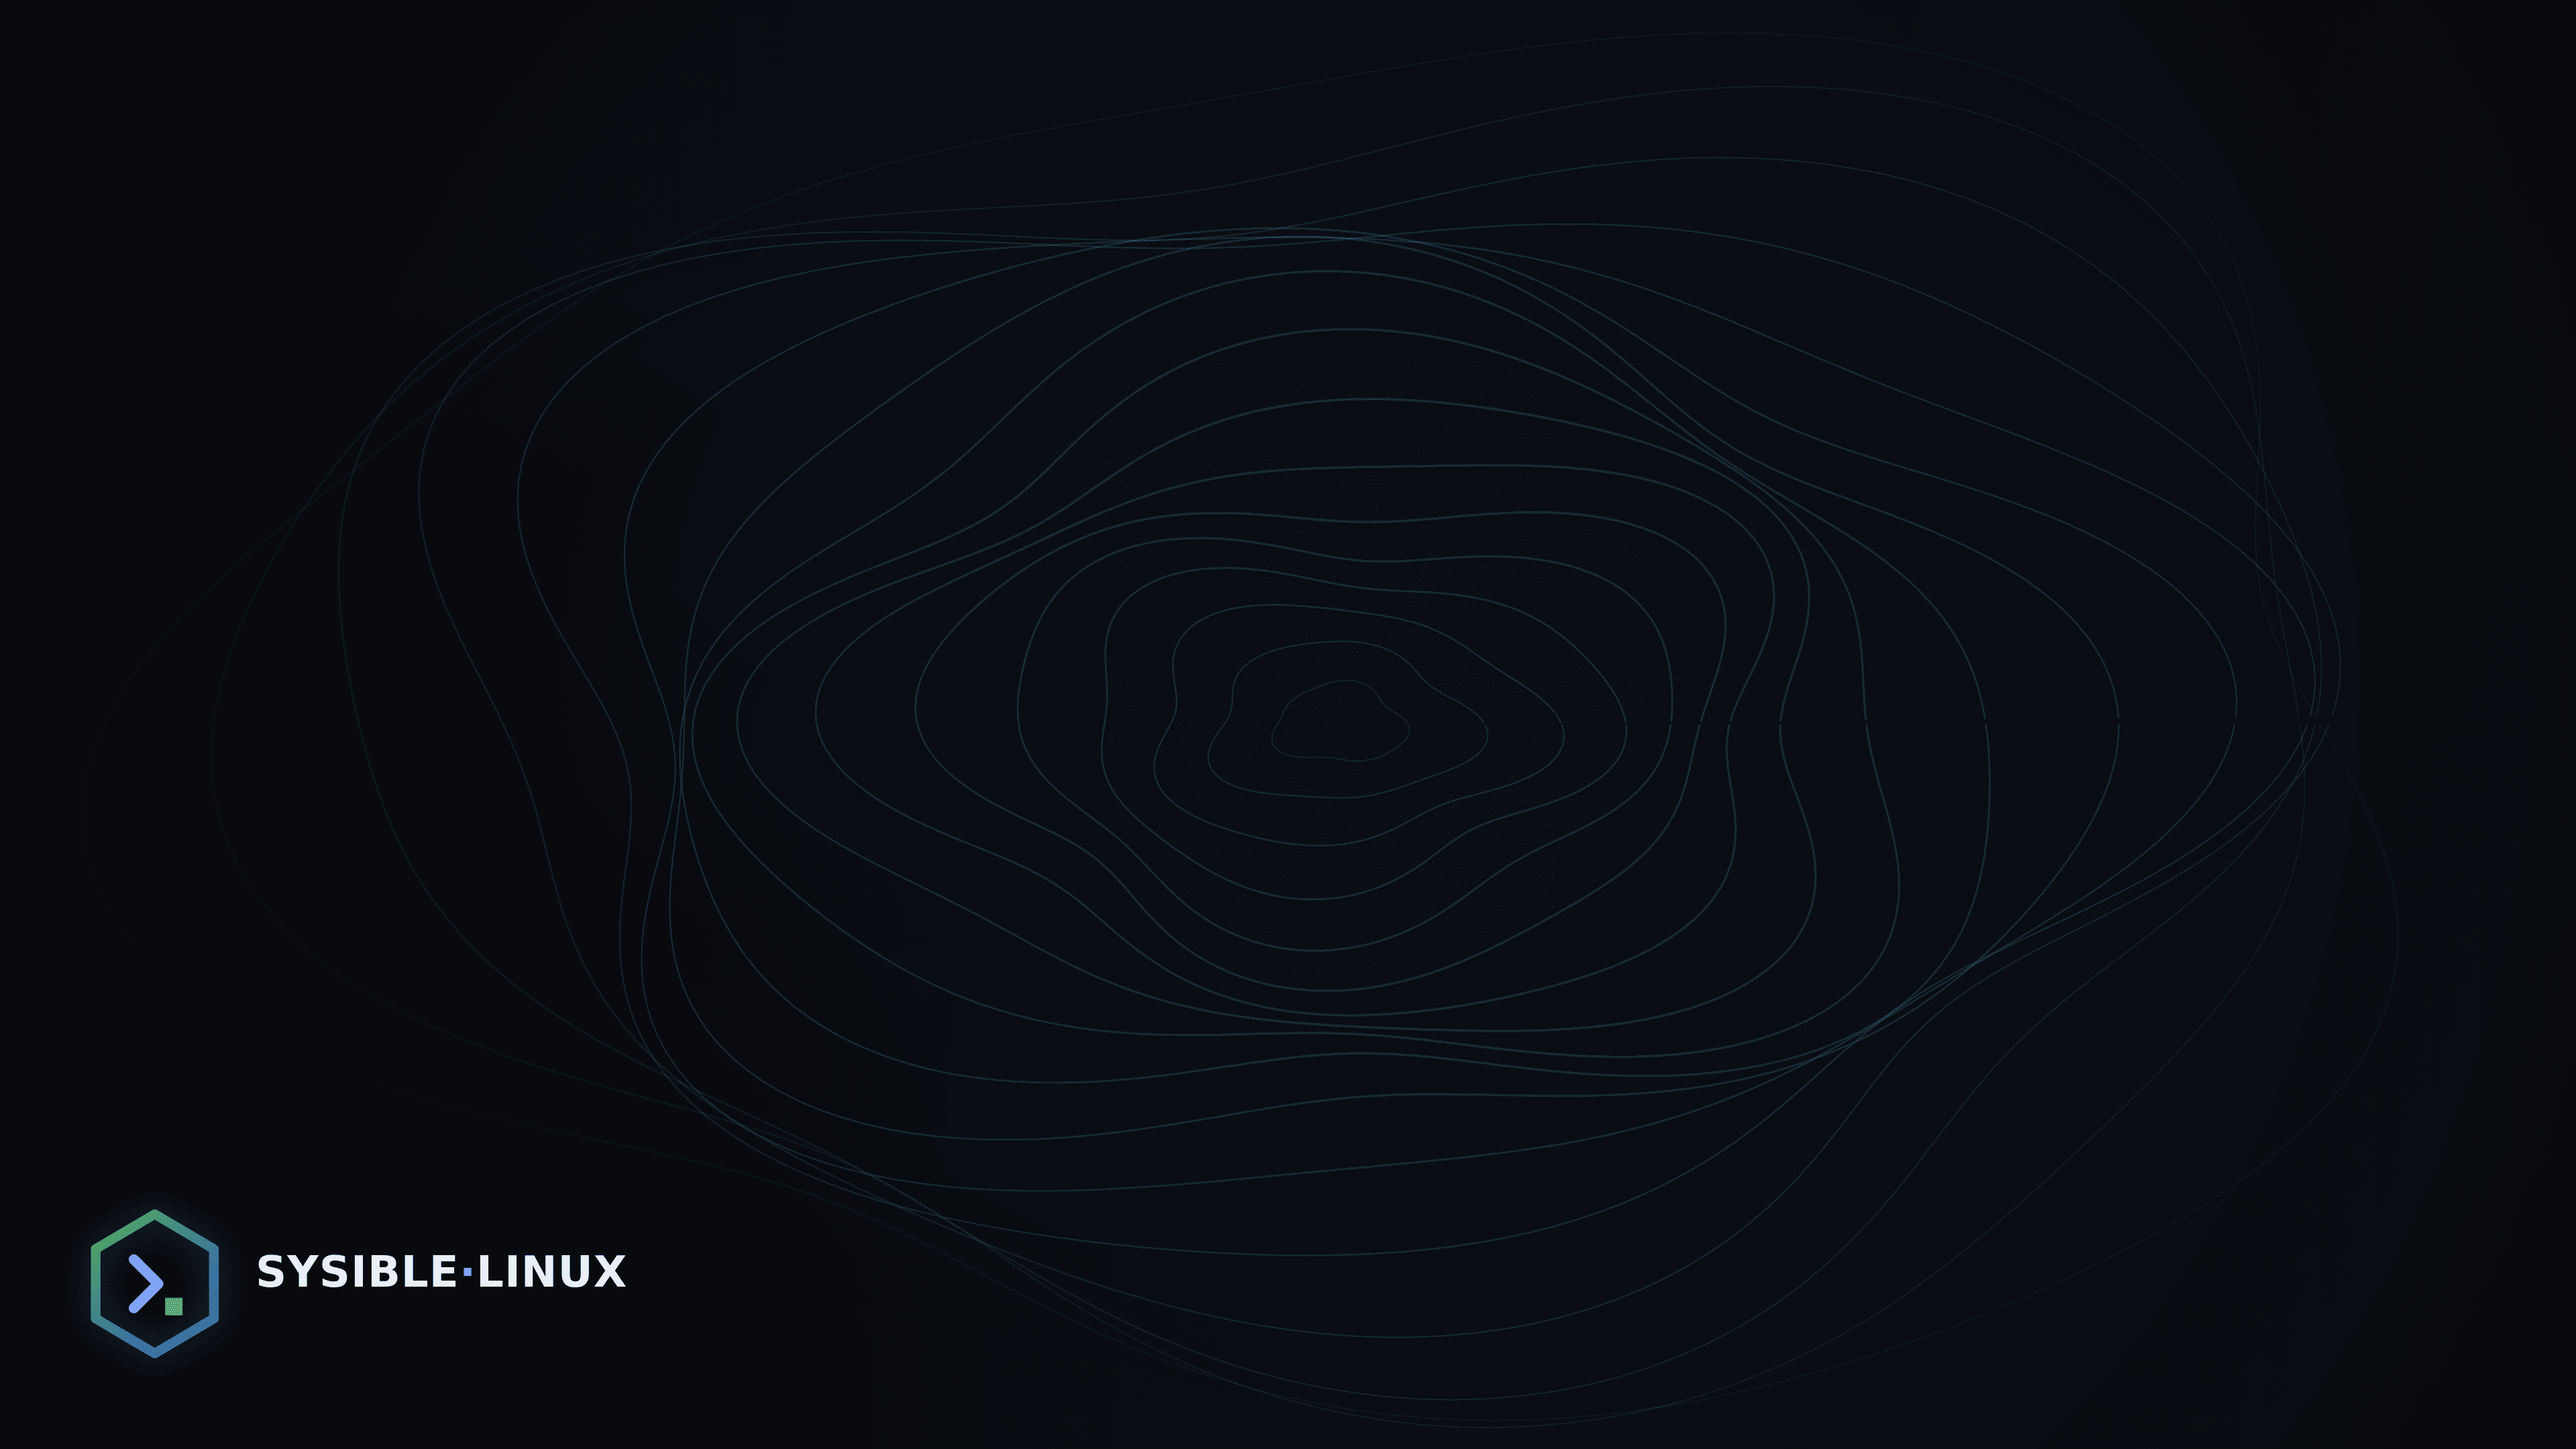
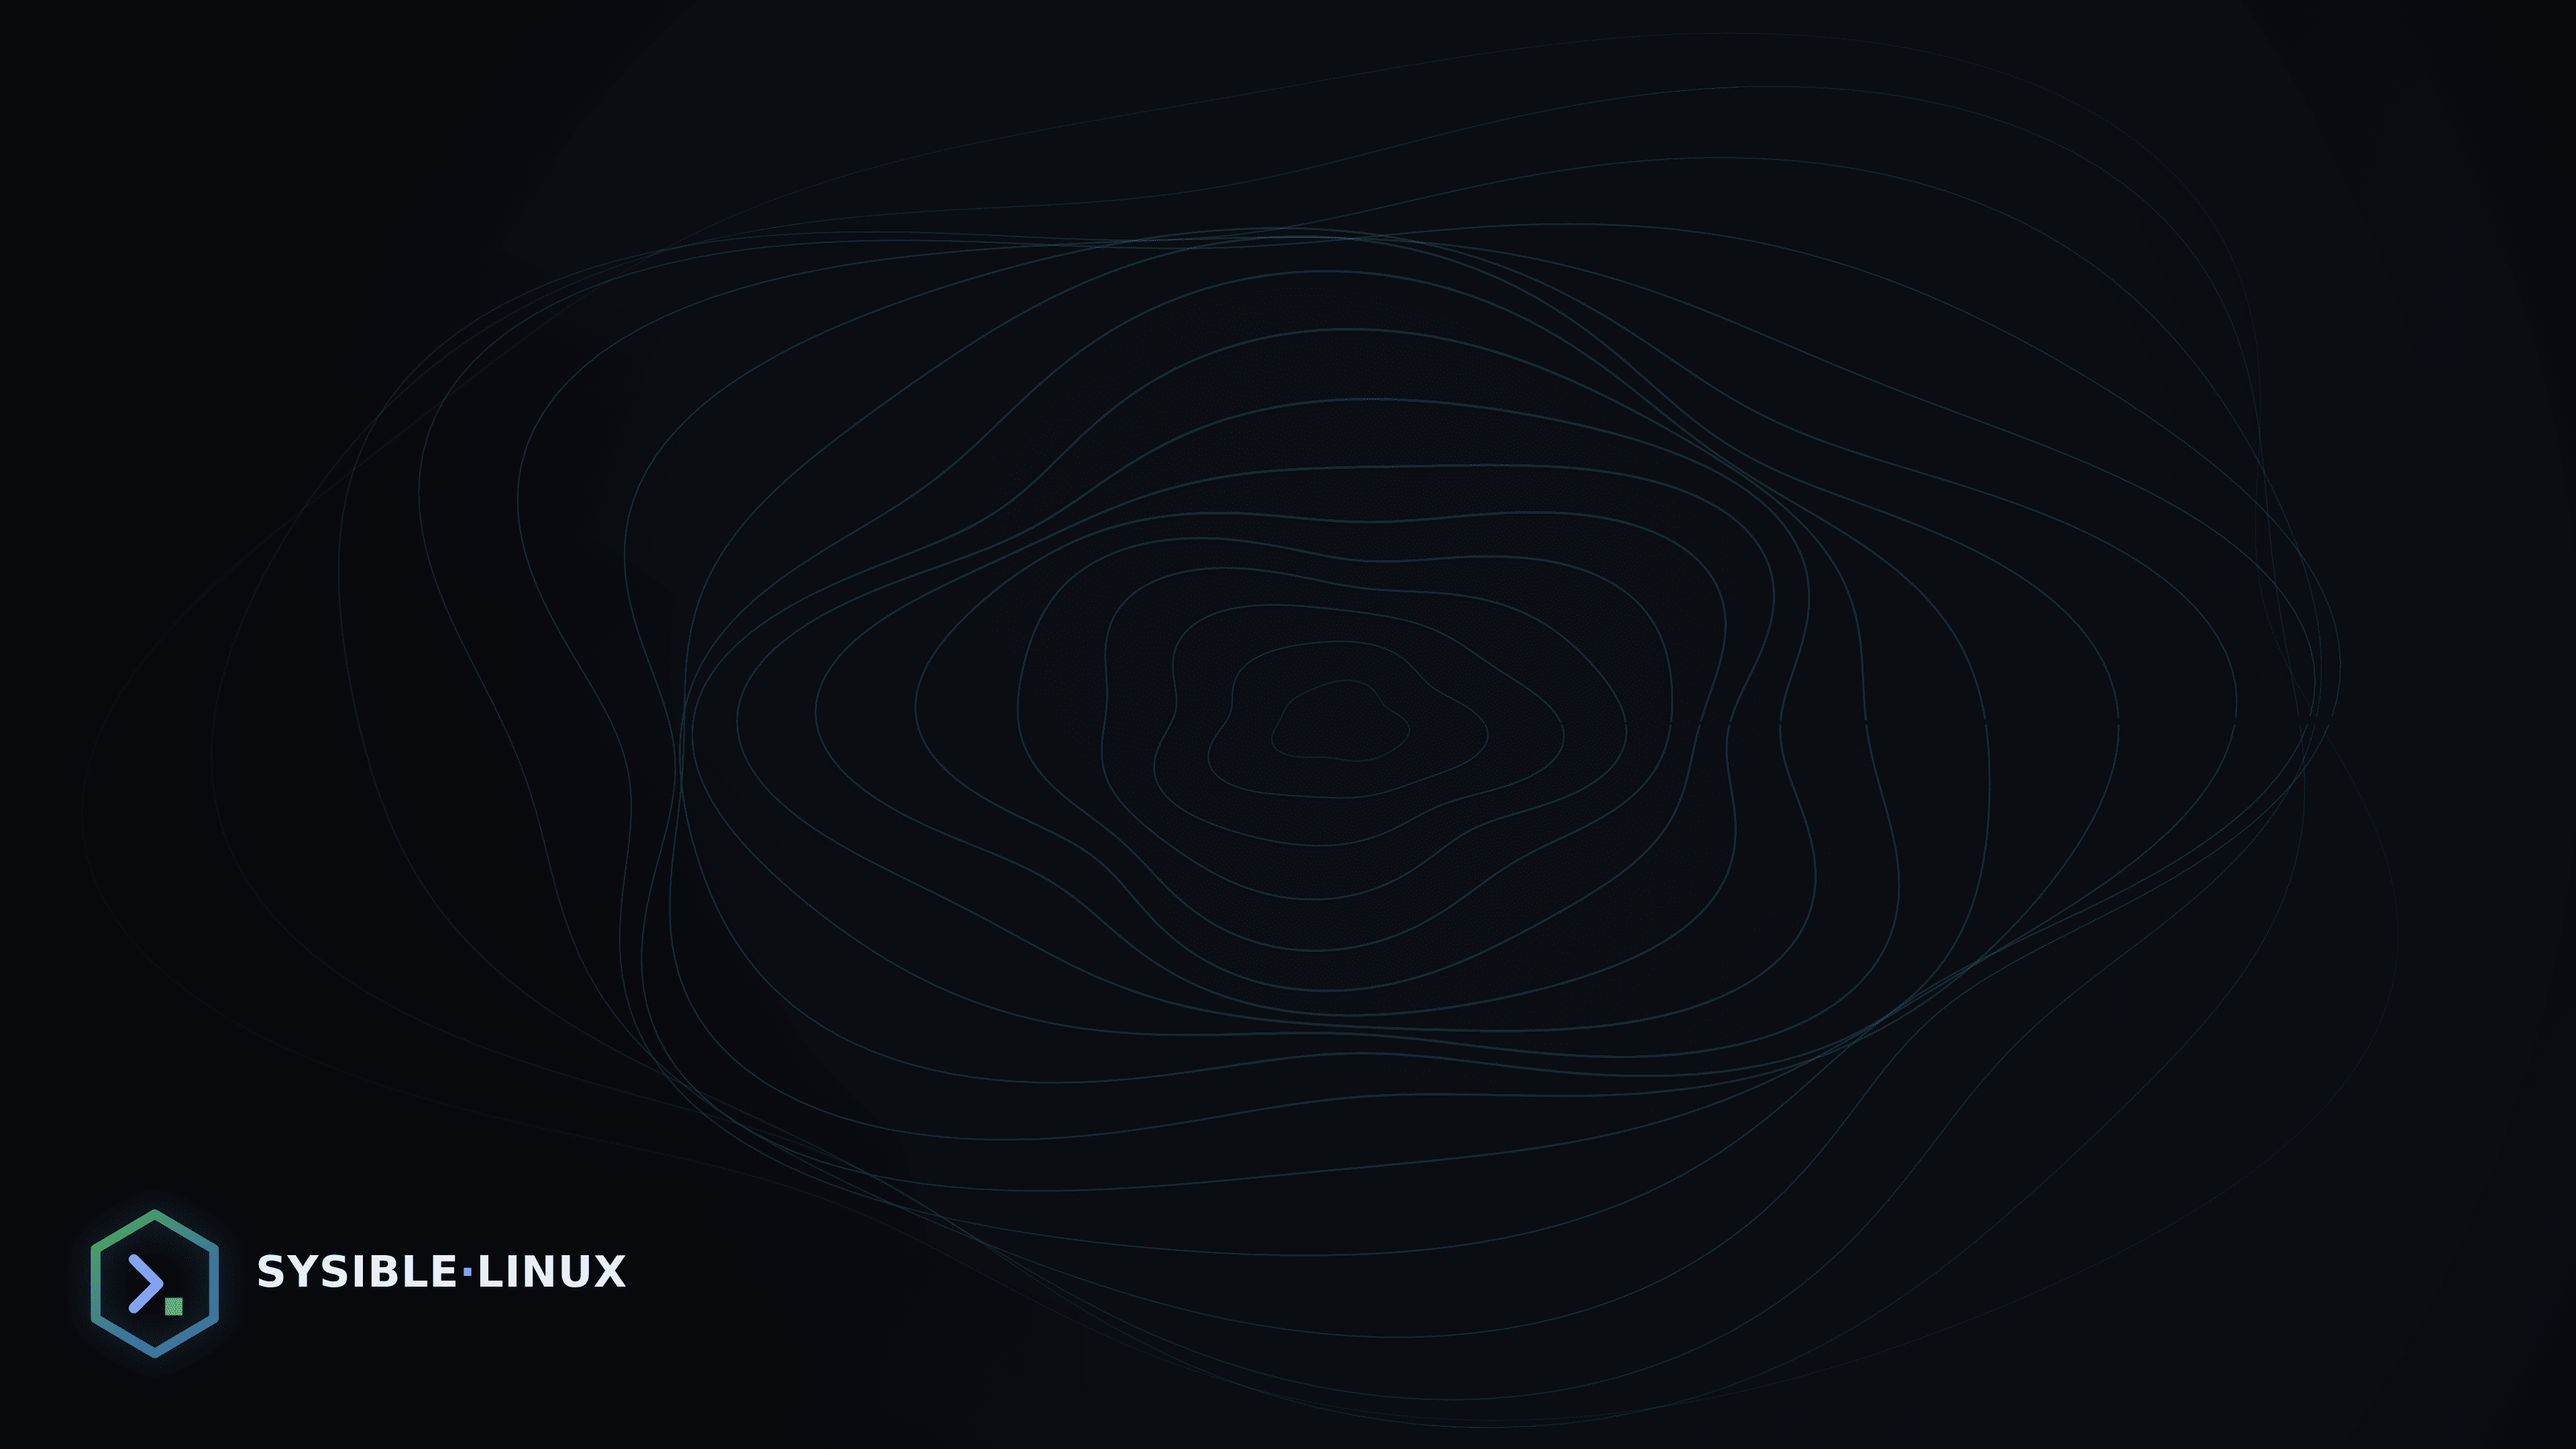
Controller mark = share glyph; denser wallpaper honeycomb
- Controller icon: reproduce the share-node glyph (one node linked to two) the
  way it appears in the brand family, replacing the earlier triangle. Updated the
  launcher icon set (SVG + hicolor + pixmap) and the website Controller mark.
- Wallpapers: halve the hex-mesh cell size (r 52->30 at the 1080 base) so the
  honeycomb reads as a fine texture instead of large zoomed cells on big/ultrawide
  screens; re-rendered all 10 backgrounds at 4K and re-optimised with pngquant.

Claude-Session: https://claude.ai/code/session_01Rykm1PRspyG3mLbsfLyocH

Changed region(s): [[0.0312, 0.8375, 0.0938, 0.9306]]

diff --git a/branding/wallpapers/wallpapers.js b/branding/wallpapers/wallpapers.js
@@ -25,7 +25,7 @@
     x.fillStyle=light?'#43a047':'#63c869';x.fillRect(cx+3*k,cy+4*k,5*k,5*k);
     x.save();x.textAlign='center';x.textBaseline='top';try{x.letterSpacing=(R*0.05)+'px';}catch(e){}x.font='600 '+(R*0.30)+'px '+SANS;x.fillStyle=light?'rgba(28,42,66,0.9)':'rgba(214,223,238,0.92)';x.fillText('SYSIBLE·LINUX',cx,cy+R*1.5);x.restore();}
   function drawMesh(x,W,H,light){const s=H/1080;light?bgLin(x,W,H,'#eef1f7','#dfe4ee'):bgLin(x,W,H,'#090b10','#12151e');
-    const r=52*s,hw=Math.sqrt(3)*r,vh=1.5*r,gx=W*0.5,gy=H*0.44,gR=Math.min(W,H)*0.52,faint=light?'rgba(58,84,132,0.11)':'rgba(150,170,200,0.055)';
+    const r=30*s,hw=Math.sqrt(3)*r,vh=1.5*r,gx=W*0.5,gy=H*0.44,gR=Math.min(W,H)*0.52,faint=light?'rgba(58,84,132,0.11)':'rgba(150,170,200,0.055)';
     let row=0;for(let cy=-r;cy<H+r;cy+=vh,row++){const off=(row%2)?hw/2:0;for(let cx=-r+off;cx<W+r;cx+=hw){const d=Math.hypot(cx-gx,cy-gy);hexPath(x,cx,cy,r*0.93);
       if(d<gR){const t=1-d/gR,fx=clamp((cx-(gx-gR))/(2*gR),0,1);x.fillStyle=rgba(mixc('#43a047','#3560d4',fx),(light?0.05:0.06)+(light?0.15:0.30)*t*t);x.fill();
         const sc=light?mixc('#2f8f3c','#2f60d4',fx):mixc('#63c869','#5580ee',fx);x.lineWidth=1.1*s;x.strokeStyle=rgba(sc,(light?0.13:0.16)+(light?0.42:0.55)*t);x.stroke();

diff --git a/website/index.html b/website/index.html
@@ -356,10 +356,10 @@ install-sysible-controller</pre>
     <!-- Controller mark: hexagon + linked nodes (fleet) -->
     <g id="mark-ctrl">
       <path d="M0,-20 L17,-10 L17,10 L0,20 L-17,10 L-17,-10 Z" fill="none" stroke="url(#sg)" stroke-width="2.5" stroke-linejoin="round"/>
-      <path d="M-8,-6 L8,-6 M-8,-6 L0,8 M8,-6 L0,8" stroke="#6f86ad" stroke-width="1.5" fill="none" stroke-linejoin="round"/>
-      <circle cx="-8" cy="-6" r="3.2" fill="#63c869"/>
-      <circle cx="8" cy="-6" r="3.2" fill="#7aa2ff"/>
-      <circle cx="0" cy="8" r="3.2" fill="#5580ee"/>
+      <path d="M-8,0 L8,-8 M-8,0 L8,8" stroke="#4f9d57" stroke-width="1.7" fill="none" stroke-linecap="round"/>
+      <circle cx="-8" cy="0" r="3.3" fill="#63c869"/>
+      <circle cx="8" cy="-8" r="3.3" fill="#63c869"/>
+      <circle cx="8" cy="8" r="3.3" fill="#63c869"/>
     </g>
   </defs>
 </svg>
